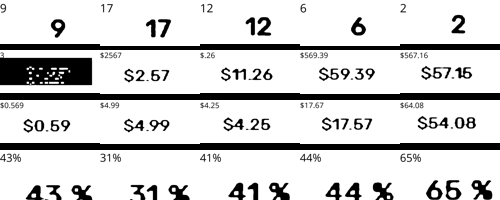
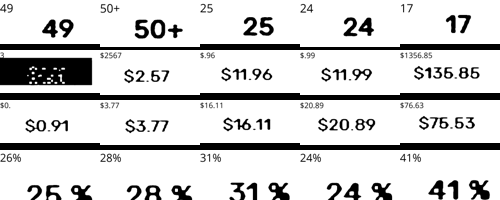
cleaned up code, fishy ocrs stiched:

diff --git a/ignition/templates/line_chart.html b/ignition/templates/line_chart.html
@@ -29,6 +29,13 @@
 	      border: 1px solid black;
 	        border-collapse: collapse;
     }
+    .center {
+	      display: block;
+	        margin-left: auto;
+		  margin-right: auto;
+		    width: 90%;
+		    vertical-align: middle;
+    }
     </style>
     <head>
 	    <link rel="icon" type="image/png" href="{% static 'ignition/spades-512.png' %}">
@@ -218,6 +225,10 @@
                 </body>
             </div>        
         </div>
+    <div>
+	    <h3>Recent OCR Failures</h3>
+	<img src="{% static 'ignition/fishy_ocr/stitched_fishy_ocrs.png' %}" width="80%" class="center"/>
+    </div>
     </div>
 
     <div class="flex-container">
@@ -301,36 +312,4 @@
     	}
 	</style>
 
-<!-- 
-	<div class="row">
-		<div class="column">
-		<img id="container" src="{% static 'ignition/fishy_ocr/num_ppl_0.png' %}" width="5%"/>
-		<img id="container" src="{% static 'ignition/fishy_ocr/num_ppl_1.png' %}" width="5%"/>
-		<img id="container" src="{% static 'ignition/fishy_ocr/num_ppl_2.png' %}" width="5%"/>
-		<img id="continer" src="{% static 'ignition/fishy_ocr/num_ppl_3.png' %}" width="5%"/>
-		<img id="container" src="{% static 'ignition/fishy_ocr/num_ppl_4.png' %}" width="5%"/></div>
-		</div>
-		<div class="column">	
-		<img id="container" src="{% static 'ignition/fishy_ocr/avg_pot_0.png' %}" width="5%"/>
-		<img id="container" src="{% static 'ignition/fishy_ocr/avg_pot_1.png' %}" width="5%"/>
-		<img id="container" src="{% static 'ignition/fishy_ocr/avg_pot_2.png' %}" width="5%"/>
-		<img id="container" src="{% static 'ignition/fishy_ocr/avg_pot_3.png' %}" width="5%"/>
-		<img id="container" src="{% static 'ignition/fishy_ocr/avg_pot_4.png' %}" width="5%"/>
-		</div>
-		<div class="column">	
-		<img id="container" src="{% static 'ignition/fishy_ocr/plrs_flop_0.png' %}" width="5%"/>
-		<img id="container" src="{% static 'ignition/fishy_ocr/plrs_flop_1.png' %}" width="5%"/>
-		<img id="container" src="{% static 'ignition/fishy_ocr/plrs_flop_2.png' %}" width="5%"/>
-		<img id="container" src="{% static 'ignition/fishy_ocr/plrs_flop_3.png' %}" width="5%"/>
-		<img id="container" src="{% static 'ignition/fishy_ocr/plrs_flop_4.png' %}" width="5%"/>
-		</div>
-		<div class="column">	
-		<img id="container" src="{% static 'ignition/fishy_ocr/avg_pot_fishy_0.png' %}" width="5%"/>
-		<img id="container" src="{% static 'ignition/fishy_ocr/avg_pot_fishy_1.png' %}" width="5%"/>
-		<img id="container" src="{% static 'ignition/fishy_ocr/avg_pot_fishy_2.png' %}" width="5%"/>
-		<img id="container" src="{% static 'ignition/fishy_ocr/avg_pot_fishy_3.png' %}" width="5%"/>
-		<img id="container" src="{% static 'ignition/fishy_ocr/avg_pot_fishy_4.png' %}" width="5%"/>
-		</div>
-	</div>
--->
 </html>

diff --git a/ignition/tasks.py b/ignition/tasks.py
@@ -171,19 +171,13 @@ def stitch_photos():
     ax1 = ["num_ppl","avg_pot_fishy","avg_pot","plrs_flop"]
     ax2 = [str(elem) for elem in list(range(5))]
 
-    #creates a new empty image, RGB mode, and size 400 by 400.
     new_im = Image.new('RGB', (500,200))
 
-    #Iterate through a 4 by 4 grid with 100 spacing, to place my image
     for i in range(0,500,100):
         for j in range(0,200,50):
-            #opens an image:
-            # print(j//50,i//100)
-            im = Image.open("/ignition/static/ignition/fishy_ocr/{}.png".format(ax1[j//50]+"_"+ax2[i//100]))
+            im = Image.open("/home/pi/project_yuler/ignition/static/ignition/fishy_ocr/{}.png".format(ax1[j//50]+"_"+ax2[i//100]))
             im.thumbnail((100,100))
             im = Image.eval(im,lambda x: x)
-            #paste the image at location i,j:
             new_im.paste(im, (i,j))
 
-    # new_im.show()
-    new_im.save("/ignition/static/ignition/fishy_ocr/stitched_fishy_ocrs.png")
+    new_im.save("/home/pi/project_yuler/ignition/static/ignition/fishy_ocr/stitched_fishy_ocrs.png")

diff --git a/mysite_3/settings.py b/mysite_3/settings.py
@@ -143,11 +143,6 @@ CELERY_TIMEZONE = 'Asia/Makassar'
 from celery.schedules import crontab
 
 CELERY_BEAT_SCHEDULE = {
-    # 'task-number-one': {
-    #     'task': 'polls.tasks.task_number_one',
-    #     'schedule': crontab(minute="*/1"),
-    #     # 'args': (*args)
-    # }
     'task-number-one': {
         'task': 'ignition.tasks.task_number_one',
         'schedule': crontab(minute="*/1"),
@@ -159,5 +154,9 @@ CELERY_BEAT_SCHEDULE = {
     'clean_screenshots': {
         'task': 'ignition.tasks.clean_screenshots',
         'schedule': crontab(hour=0)
+    },
+    'stitch_photos': {
+        'task': 'ignition.tasks.stitch_photos',
+        'schedule': crontab(minute="*/1")
     }
 }
